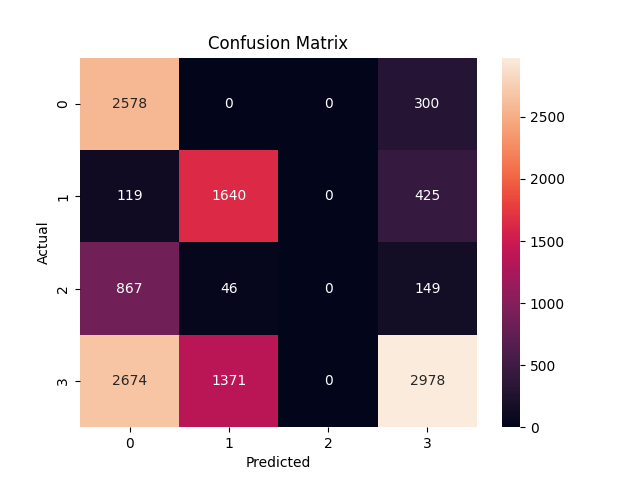
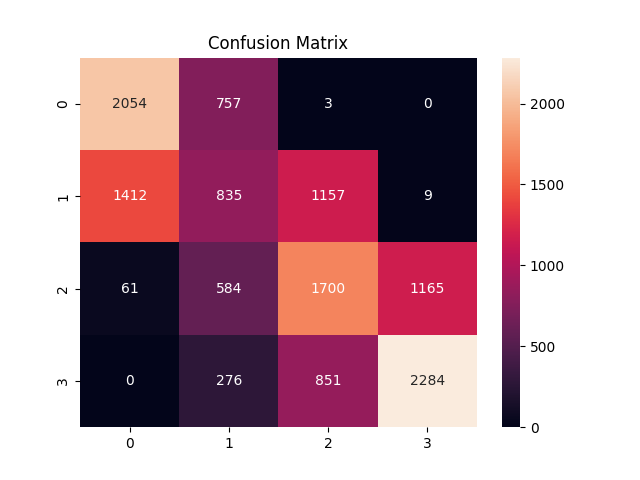
Final updations

diff --git a/Weather.py b/Weather.py
@@ -7,7 +7,9 @@ from sklearn.preprocessing import StandardScaler
 from sklearn.metrics import accuracy_score, confusion_matrix, classification_report
 from sklearn.model_selection import train_test_split
 
-print("Weather Prediction using Hidden Markov Model")
+np.random.seed(42)
+
+print("Weather State Prediction using Hidden Markov Model")
 
 # Load dataset
 data = pd.read_csv("BeijingPM2.5.csv")
@@ -16,64 +18,49 @@ data = pd.read_csv("BeijingPM2.5.csv")
 data = data[['TEMP', 'DEWP', 'PRES', 'Iws']]
 data = data.dropna()
 
-# Feature Engineering (Moving Average)
-data['TEMP_MA'] = data['TEMP'].rolling(3).mean()
-data['DEWP_MA'] = data['DEWP'].rolling(3).mean()
-data['PRES_MA'] = data['PRES'].rolling(3).mean()
-data['Iws_MA'] = data['Iws'].rolling(3).mean()
-data = data.dropna()
-
-# Better Weather Labels
-def weather_label(row):
-    if row['TEMP'] < 5 and row['PRES'] > 1020:
-        return 0  # Cold
-    elif row['TEMP'] > 25 and row['DEWP'] > 10:
-        return 1  # Hot Humid
-    elif row['Iws'] > 30:
-        return 2  # Windy
-    else:
-        return 3  # Mild
-
-data['WeatherLabel'] = data.apply(weather_label, axis=1)
+# -----------------------------
+# Balanced Weather Labels (Quantiles)
+# -----------------------------
+data['WeatherLabel'] = pd.qcut(data['TEMP'], 4, labels=False)
 
 # Features
-X = data[['TEMP','DEWP','PRES','Iws','TEMP_MA','DEWP_MA','PRES_MA','Iws_MA']].values
+X = data[['TEMP', 'DEWP', 'PRES', 'Iws']].values
 y = data['WeatherLabel'].values
 
 # Normalize
 scaler = StandardScaler()
 X = scaler.fit_transform(X)
 
-# Train Test Split
+# Train Test Split (time series)
 X_train, X_test, y_train, y_test = train_test_split(
     X, y, test_size=0.3, shuffle=False
 )
 
 # Train HMM
 model = hmm.GaussianHMM(
-    n_components=5,
+    n_components=4,
     covariance_type="full",
-    n_iter=400
+    n_iter=300,
+    random_state=42
 )
 model.fit(X_train)
 
-# Predict hidden states
+# Predict states
 train_states = model.predict(X_train)
 test_states = model.predict(X_test)
 
 # Map states to labels
 state_mapping = {}
-for i in range(5):
+for i in range(4):
     mask = (train_states == i)
     if np.sum(mask) > 0:
         state_mapping[i] = np.bincount(y_train[mask]).argmax()
 
 y_pred = np.array([state_mapping[s] for s in test_states])
 
-# PERFORMANCE METRICS
+# Metrics
 print("\n===== PERFORMANCE METRICS =====")
 print("Accuracy:", accuracy_score(y_test, y_pred))
-
 print("\nClassification Report:")
 print(classification_report(y_test, y_pred, zero_division=0))
 
@@ -82,40 +69,24 @@ cm = confusion_matrix(y_test, y_pred)
 plt.figure()
 sns.heatmap(cm, annot=True, fmt="d")
 plt.title("Confusion Matrix")
-plt.xlabel("Predicted")
-plt.ylabel("Actual")
 plt.show()
 
 # Transition Matrix
 plt.figure()
 sns.heatmap(model.transmat_, annot=True)
-plt.title("Transition Probability Matrix")
-plt.xlabel("To State")
-plt.ylabel("From State")
+plt.title("Transition Matrix")
 plt.show()
 
 # Hidden State Sequence
 plt.figure()
 plt.plot(test_states[:200])
 plt.title("Hidden State Sequence")
-plt.xlabel("Time")
-plt.ylabel("State")
-plt.show()
-
-# Temperature Time Series
-plt.figure()
-plt.plot(data['TEMP'][:200])
-plt.title("Temperature Time Series")
-plt.xlabel("Time")
-plt.ylabel("Temperature")
 plt.show()
 
 # State Distribution
 plt.figure()
 sns.countplot(x=test_states)
 plt.title("Hidden State Distribution")
-plt.xlabel("State")
-plt.ylabel("Count")
 plt.show()
 
 # Log Likelihood
